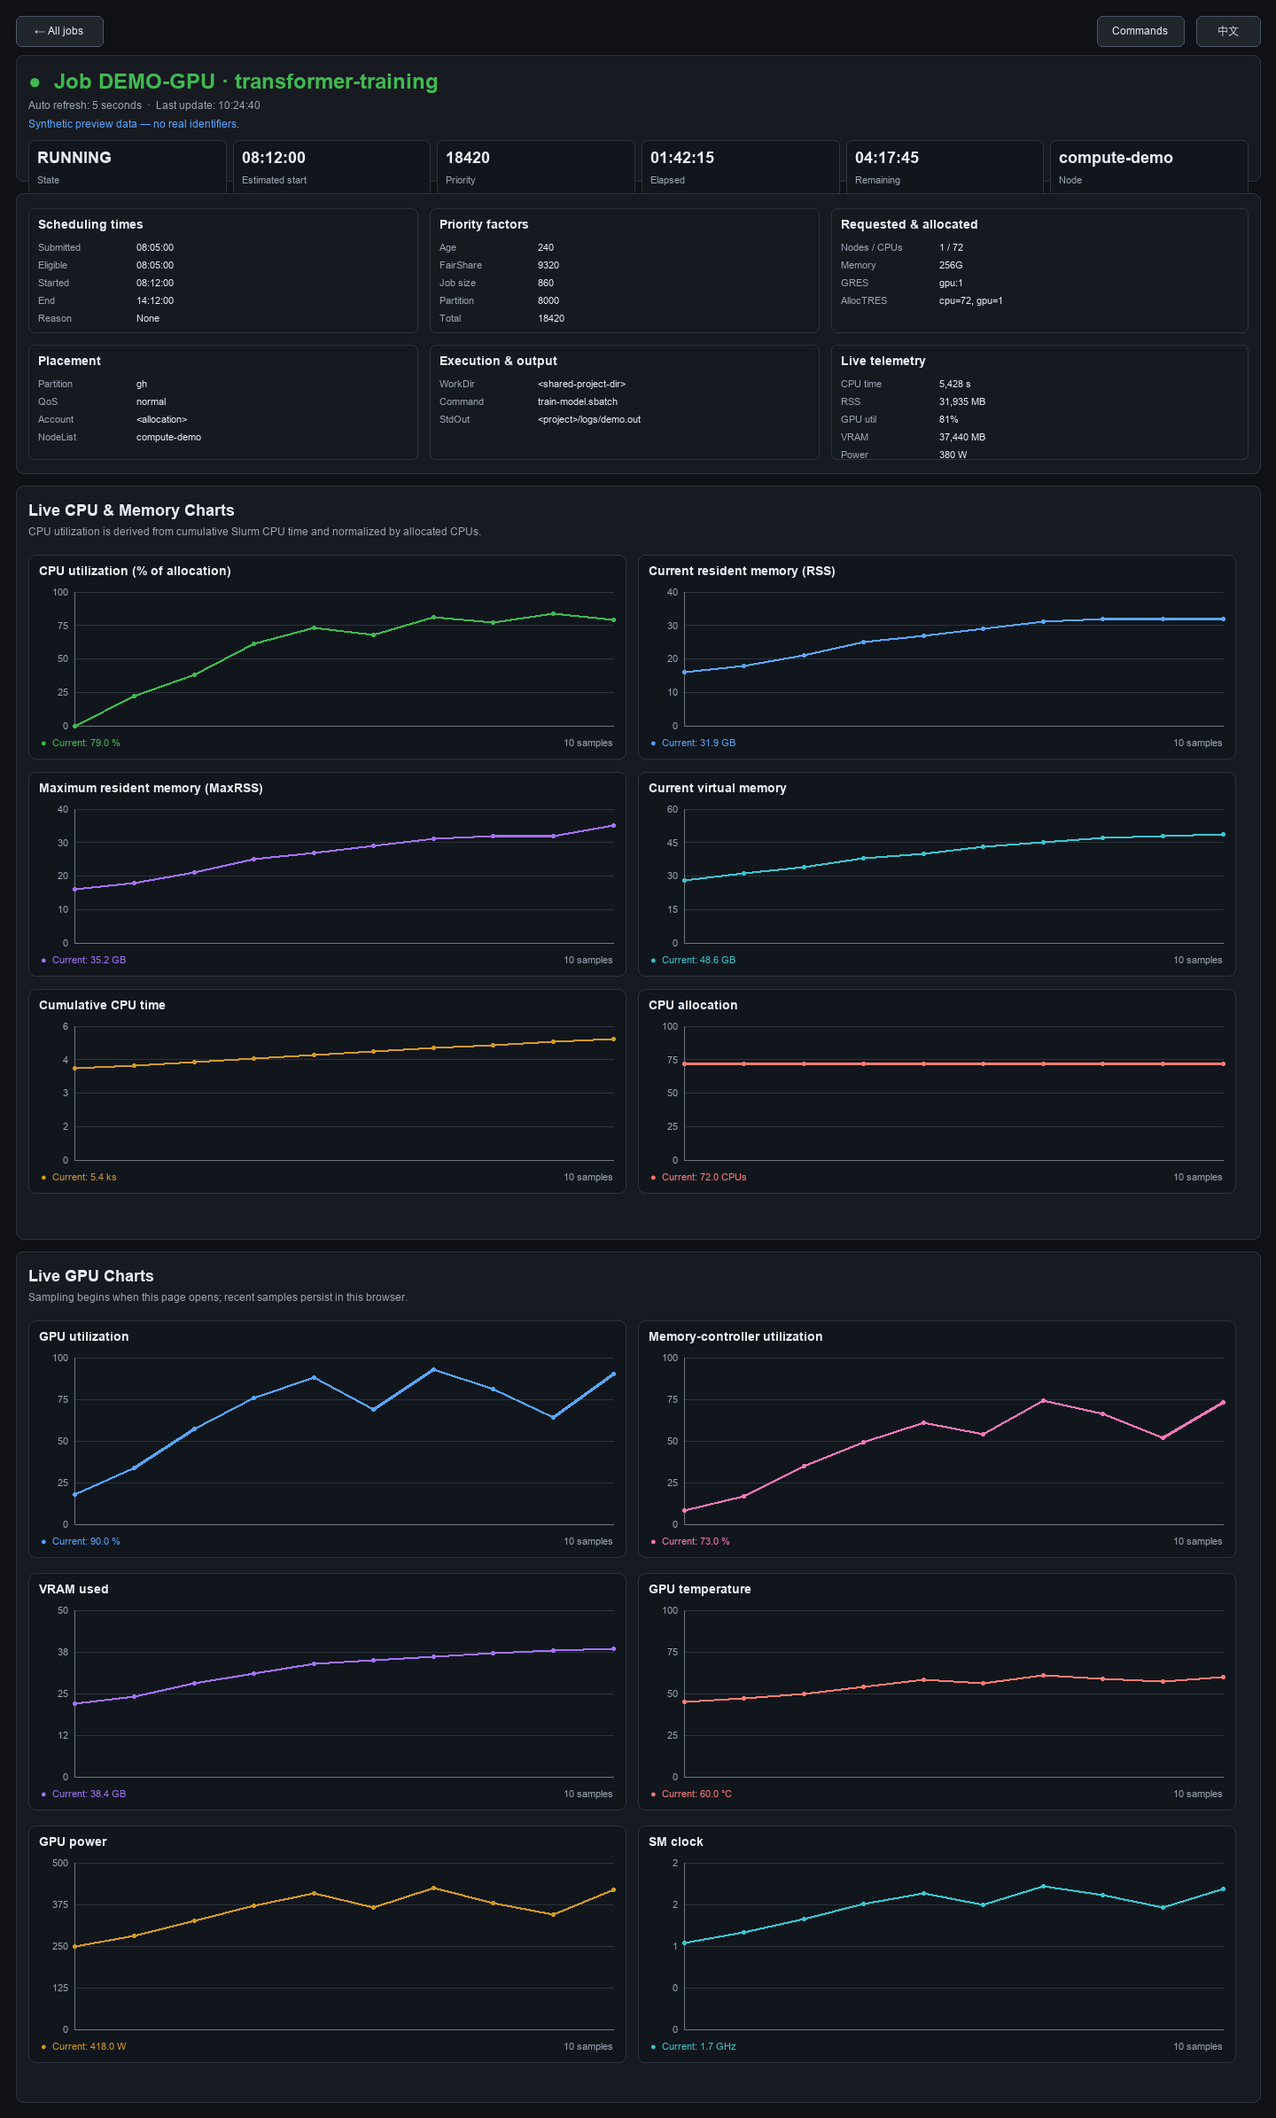
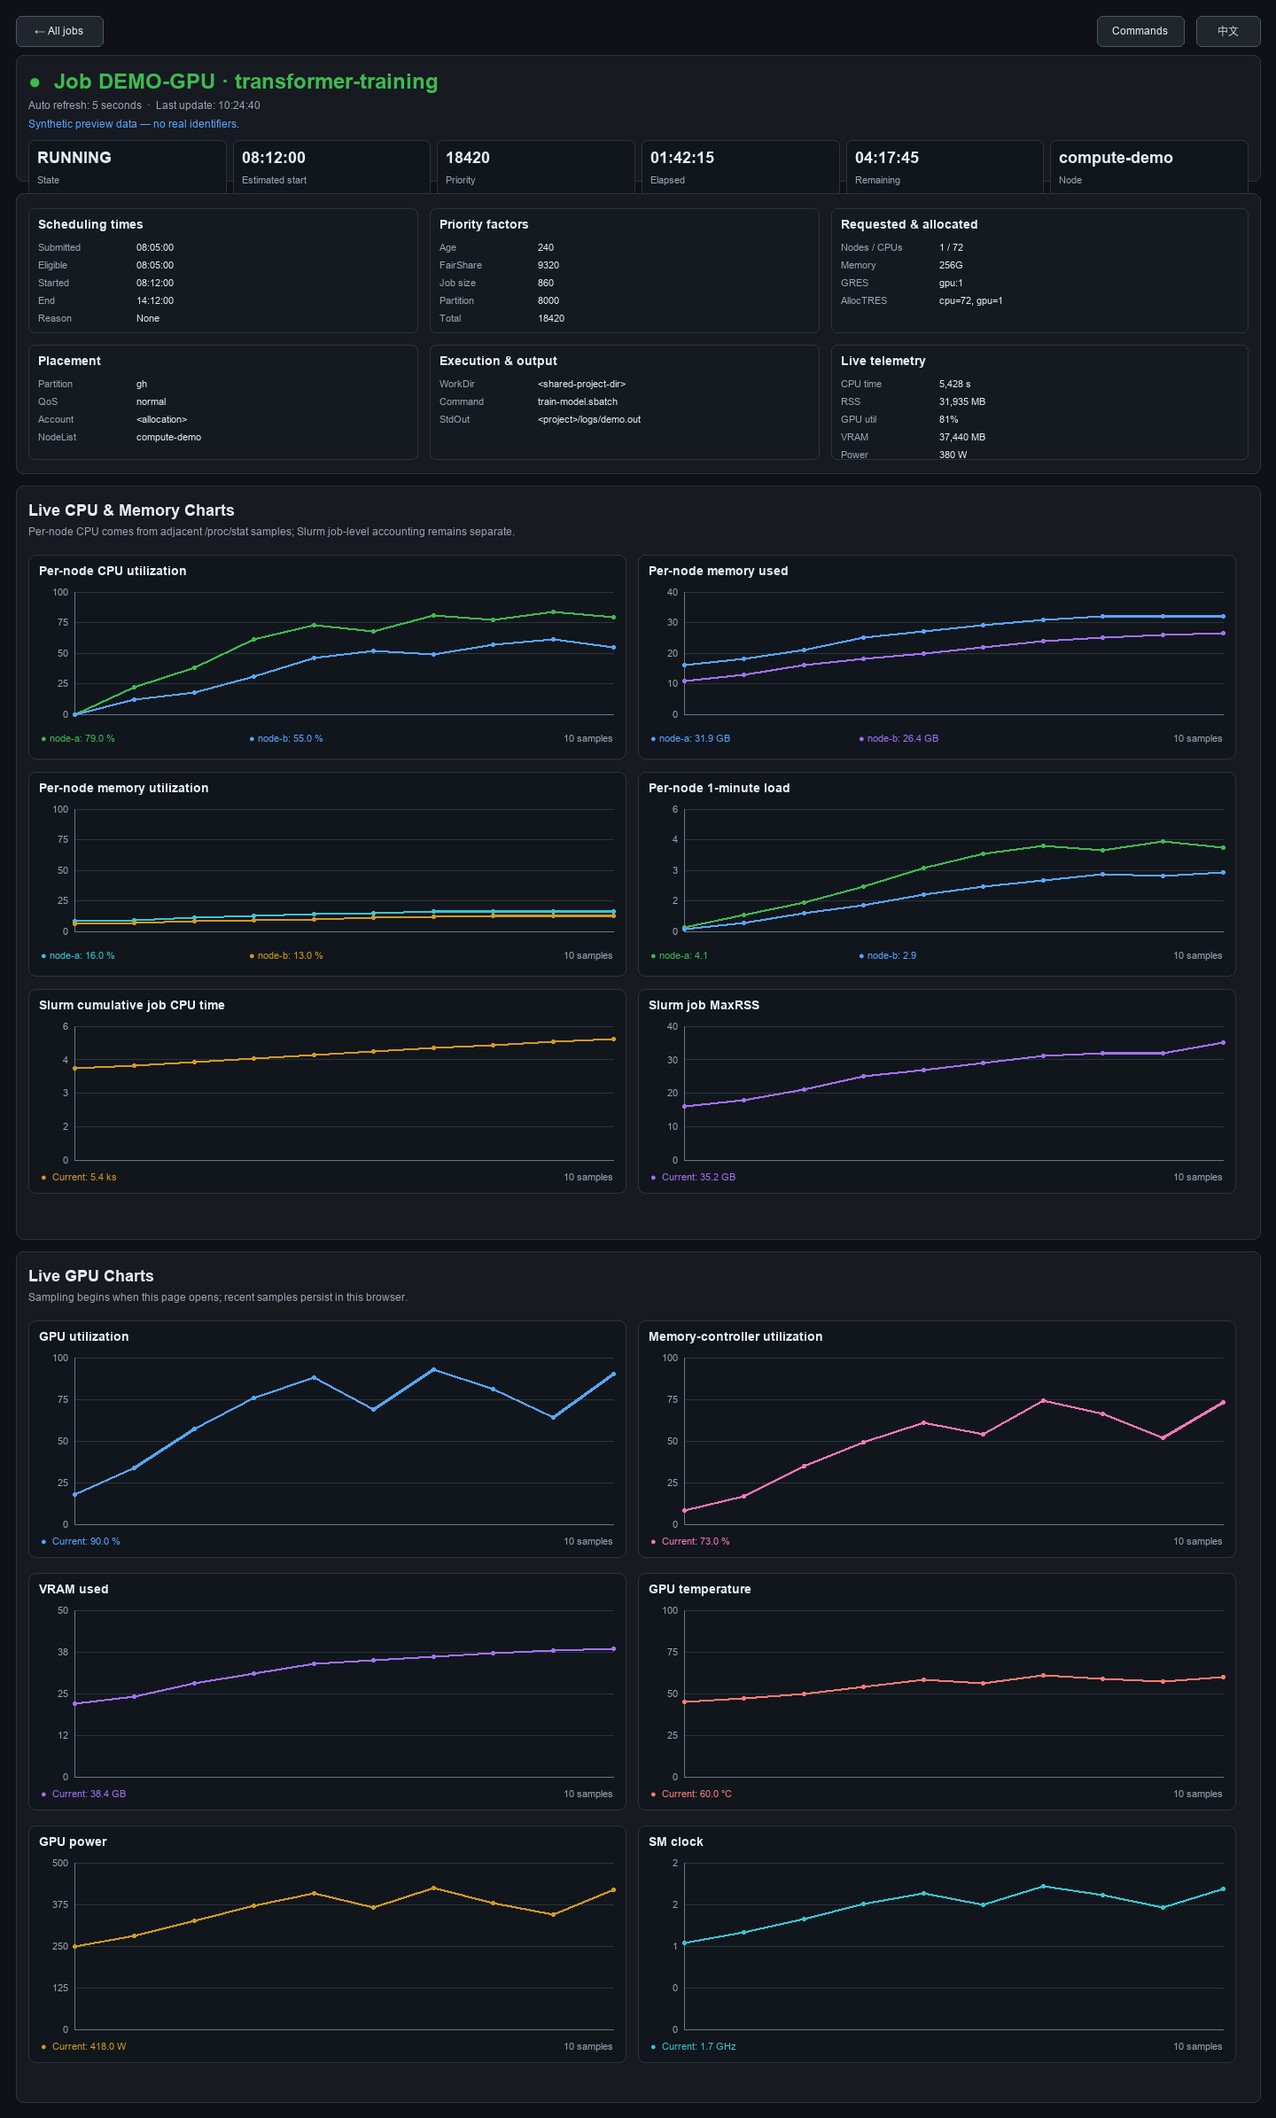
Add per-node CPU and memory charts

diff --git a/scripts/dashboard/vista_job_dashboard.py b/scripts/dashboard/vista_job_dashboard.py
@@ -381,6 +381,8 @@ def accounting_row_to_job(row: dict[str, str]) -> dict[str, object]:
         "gpu_warn": "Historical GPU telemetry was not retained",
         "cpu": {"total_cpu_seconds": 0, "rss_mb": 0, "max_rss_mb": 0, "vmem_mb": 0, "max_vmem_mb": 0, "steps": []},
         "cpu_warn": "Historical CPU telemetry was not retained",
+        "node_cpu": {"nodes": []},
+        "node_cpu_warn": "Historical per-node telemetry was not retained",
         "slurm_details": row,
         "is_history": True,
     }
@@ -611,6 +613,79 @@ def query_job_gpu(
     return {"metrics": metrics, "processes": procs}, None
 
 
+def query_job_node_resources(
+    jobid: str,
+    partition: str,
+    node_count: object,
+    node_list: str,
+) -> tuple[dict[str, object], str | None]:
+    """Read per-node CPU counters, memory, and load from every allocated node."""
+    if not shutil.which("srun"):
+        return {"nodes": []}, "srun not available"
+
+    nodes = max(1, to_int(str(node_count)))
+    timeout = max(30, min(90, 20 + nodes * 3))
+    step_cmd = [
+        "srun",
+        "--overlap",
+        f"--jobid={jobid}",
+        f"--partition={partition}",
+        f"--ntasks={nodes}",
+        f"--nodes={nodes}",
+        "--ntasks-per-node=1",
+        "--time=00:00:15",
+    ]
+    if node_list and node_list not in {"N/A", "(null)", "None"}:
+        step_cmd.append(f"--nodelist={node_list}")
+
+    resource_query = (
+        "node=$(hostname -s); "
+        "read -r _ user nice system idle iowait irq softirq steal _ < /proc/stat; "
+        "total=$((user+nice+system+idle+iowait+irq+softirq+steal)); "
+        "idle_all=$((idle+iowait)); "
+        "mem_total=0; mem_available=0; "
+        "while read -r key value _; do "
+        "case \"$key\" in MemTotal:) mem_total=$value ;; MemAvailable:) mem_available=$value ;; esac; "
+        "done < /proc/meminfo; "
+        "read -r load1 load5 load15 _ < /proc/loadavg; "
+        "printf '%s|%s|%s|%s|%s|%s|%s|%s\\n' "
+        "\"$node\" \"$total\" \"$idle_all\" \"$mem_total\" \"$mem_available\" "
+        "\"$load1\" \"$load5\" \"$load15\""
+    )
+    try:
+        raw = run_cmd([*step_cmd, "bash", "-lc", resource_query], timeout=timeout)
+    except RuntimeError as error:
+        return {"nodes": [], "error": str(error)}, None
+
+    samples: list[dict[str, object]] = []
+    for line in raw.splitlines():
+        parts = [part.strip() for part in line.split("|")]
+        if len(parts) != 8 or not parts[0] or not all(part.replace(".", "", 1).isdigit() for part in parts[1:]):
+            continue
+        total_ticks = to_int(parts[1])
+        idle_ticks = to_int(parts[2])
+        memory_total_mb = to_int(parts[3]) / 1024
+        memory_available_mb = to_int(parts[4]) / 1024
+        memory_used_mb = max(0.0, memory_total_mb - memory_available_mb)
+        samples.append(
+            {
+                "node": parts[0],
+                "cpu_total_ticks": total_ticks,
+                "cpu_idle_ticks": idle_ticks,
+                "memory_total_mb": round(memory_total_mb, 2),
+                "memory_available_mb": round(memory_available_mb, 2),
+                "memory_used_mb": round(memory_used_mb, 2),
+                "memory_used_pct": round(100 * memory_used_mb / memory_total_mb, 1) if memory_total_mb else 0.0,
+                "load1": float(parts[5]),
+                "load5": float(parts[6]),
+                "load15": float(parts[7]),
+            }
+        )
+    samples.sort(key=lambda item: str(item.get("node", "")))
+    warning = None if samples else "No per-node CPU or memory data was returned"
+    return {"nodes": samples}, warning
+
+
 def query_job_cpu(jobid: str) -> tuple[dict[str, object], str | None]:
     """Read cumulative CPU time and live memory statistics for all running steps."""
     if not shutil.which("sstat"):
@@ -755,6 +830,14 @@ def collect_all(
             cpu_data, cpu_warn = query_job_cpu(j["jobid"])
             entry["cpu"] = cpu_data
             entry["cpu_warn"] = cpu_warn
+            node_cpu_data, node_cpu_warn = query_job_node_resources(
+                j["jobid"],
+                partition,
+                detail.get("NumNodes", j.get("num_nodes", 1)),
+                str(j.get("nodes", "")),
+            )
+            entry["node_cpu"] = node_cpu_data
+            entry["node_cpu_warn"] = node_cpu_warn
         else:
             entry["cpu"] = {
                 "total_cpu_seconds": 0,
@@ -765,6 +848,8 @@ def collect_all(
                 "steps": [],
             }
             entry["cpu_warn"] = None
+            entry["node_cpu"] = {"nodes": []}
+            entry["node_cpu_warn"] = None
 
         estimate = estimated_starts.get(j["jobid"], {})
         priority = priority_components.get(j["jobid"], {})
@@ -977,7 +1062,7 @@ const I18N = {
     all_jobs:'全部作业', dashboard_title:'Vista 作业、CPU 与 GPU 仪表盘', auto_refresh:'自动刷新',
     last_update:'最后更新', gpu_charts:'GPU 实时曲线', cpu_charts:'CPU 与内存实时曲线',
     chart_note:'曲线从打开详情页后开始采样；近期样本保存在本机浏览器中。',
-    cpu_chart_note:'CPU 利用率根据 Slurm 累计 CPU 时间在相邻样本间计算，并按已分配 CPU 数归一化。',
+    cpu_chart_note:'每节点 CPU 利用率根据相邻 /proc/stat 样本计算；Slurm 作业级曲线仍显示累计 CPU 时间和 MaxRSS。',
     active_jobs:'活动作业', running:'运行中', pending:'排队中', nodes_requested:'节点请求',
     cpus_requested:'CPU 请求', gpus_allocated:'GPU 分配', finished:'已结束', abnormal:'异常结束',
     job:'任务', elapsed_left:'耗时 / 剩时', scheduling:'调度信息', placement:'分区 / QoS / 节点',
@@ -1005,7 +1090,7 @@ const I18N = {
     all_jobs:'All jobs', dashboard_title:'Vista Jobs, CPU & GPU Dashboard', auto_refresh:'Auto refresh',
     last_update:'Last update', gpu_charts:'Live GPU Charts', cpu_charts:'Live CPU & Memory Charts',
     chart_note:'Sampling begins when this page opens; recent samples persist in this browser.',
-    cpu_chart_note:'CPU utilization is derived from the change in Slurm cumulative CPU time between samples, normalized by allocated CPUs.',
+    cpu_chart_note:'Per-node CPU utilization is derived from adjacent /proc/stat samples; Slurm job-level charts retain cumulative CPU time and MaxRSS.',
     active_jobs:'Active jobs', running:'Running', pending:'Pending', nodes_requested:'Nodes requested',
     cpus_requested:'CPUs requested', gpus_allocated:'GPUs allocated', finished:'finished', abnormal:'Abnormal exits',
     job:'Job', elapsed_left:'Elapsed / Left', scheduling:'Scheduling', placement:'Partition / QoS / Nodes',
@@ -1505,13 +1590,17 @@ async function refresh() {
 const DETAIL_HISTORY_LIMIT = 720;
 const detailHistoryKey = detailJobId ? `vista-gpu-history-v2-${detailJobId}` : '';
 const detailCpuHistoryKey = detailJobId ? `vista-cpu-history-${detailJobId}` : '';
+const detailNodeCpuHistoryKey = detailJobId ? `vista-node-cpu-history-v1-${detailJobId}` : '';
 let detailSeries = {};
 let detailCpuSeries = [];
+let detailNodeCpuSeries = {};
 if (detailHistoryKey) {
   try { detailSeries = JSON.parse(localStorage.getItem(detailHistoryKey) || '{}'); }
   catch (_) { detailSeries = {}; }
   try { detailCpuSeries = JSON.parse(localStorage.getItem(detailCpuHistoryKey) || '[]'); }
   catch (_) { detailCpuSeries = []; }
+  try { detailNodeCpuSeries = JSON.parse(localStorage.getItem(detailNodeCpuHistoryKey) || '{}'); }
+  catch (_) { detailNodeCpuSeries = {}; }
 }
 
 function metricNumber(value) {
@@ -1571,6 +1660,37 @@ function recordDetailSample(job) {
   });
   if (detailCpuSeries.length > DETAIL_HISTORY_LIMIT) detailCpuSeries.splice(0, detailCpuSeries.length - DETAIL_HISTORY_LIMIT);
   try { localStorage.setItem(detailCpuHistoryKey, JSON.stringify(detailCpuSeries)); } catch (_) { /* storage is optional */ }
+
+  const nodeSamples = (job.node_cpu && job.node_cpu.nodes) || [];
+  for (const sample of nodeSamples) {
+    const node = String(sample.node || 'unknown-node');
+    if (!detailNodeCpuSeries[node]) detailNodeCpuSeries[node] = [];
+    const points = detailNodeCpuSeries[node];
+    const prior = points.length ? points[points.length - 1] : null;
+    const totalTicks = metricNumber(sample.cpu_total_ticks);
+    const idleTicks = metricNumber(sample.cpu_idle_ticks);
+    let cpuUtil = 0;
+    if (prior && totalTicks > metricNumber(prior.cpu_total_ticks)) {
+      const totalDelta = totalTicks - metricNumber(prior.cpu_total_ticks);
+      const idleDelta = Math.max(0, idleTicks - metricNumber(prior.cpu_idle_ticks));
+      cpuUtil = 100 * Math.max(0, totalDelta - idleDelta) / totalDelta;
+    }
+    points.push({
+      t: now,
+      cpu_util: Math.max(0, Math.min(100, cpuUtil)),
+      cpu_total_ticks: totalTicks,
+      cpu_idle_ticks: idleTicks,
+      memory_used_mb: metricNumber(sample.memory_used_mb),
+      memory_available_mb: metricNumber(sample.memory_available_mb),
+      memory_total_mb: metricNumber(sample.memory_total_mb),
+      memory_used_pct: metricNumber(sample.memory_used_pct),
+      load1: metricNumber(sample.load1),
+      load5: metricNumber(sample.load5),
+      load15: metricNumber(sample.load15)
+    });
+    if (points.length > DETAIL_HISTORY_LIMIT) points.splice(0, points.length - DETAIL_HISTORY_LIMIT);
+  }
+  try { localStorage.setItem(detailNodeCpuHistoryKey, JSON.stringify(detailNodeCpuSeries)); } catch (_) { /* storage is optional */ }
 }
 
 const chartColors = ['#58a6ff','#3fb950','#d29922','#f778ba','#a371f7','#39c5cf','#ff7b72','#ffa657'];
@@ -1607,15 +1727,19 @@ function lineChart(field, unit, fixedMax = null, suggestedMax = 1, sourceSeries 
 function metricTitle(zh, en) { return language === 'zh' ? zh : en; }
 function renderCpuCharts() {
   const cpuSeries = {all: detailCpuSeries};
+  const nodeSeries = Object.keys(detailNodeCpuSeries).length ? detailNodeCpuSeries : {
+    'N/A': [{cpu_util:0, memory_used_mb:0, memory_used_pct:0, load1:0}]
+  };
   const charts = [
-    [metricTitle('CPU 利用率（占已分配 CPU）','CPU utilization (% of allocation)'), 'cpu_util', '%', 100, 100],
-    [metricTitle('当前常驻内存 RSS','Current resident memory (RSS)'), 'rss_mb', 'MB', null, 1024],
-    [metricTitle('最大常驻内存 MaxRSS','Maximum resident memory (MaxRSS)'), 'max_rss_mb', 'MB', null, 1024],
-    [metricTitle('当前虚拟内存','Current virtual memory'), 'vmem_mb', 'MB', null, 1024],
-    [metricTitle('累计 CPU 时间','Cumulative CPU time'), 'total_cpu_seconds', 's', null, 60]
+    [metricTitle('每节点 CPU 利用率','Per-node CPU utilization'), 'cpu_util', '%', 100, 100, nodeSeries, metricTitle('节点','Node')],
+    [metricTitle('每节点已用内存','Per-node memory used'), 'memory_used_mb', 'MB', null, 1024, nodeSeries, metricTitle('节点','Node')],
+    [metricTitle('每节点内存使用率','Per-node memory utilization'), 'memory_used_pct', '%', 100, 100, nodeSeries, metricTitle('节点','Node')],
+    [metricTitle('每节点 1 分钟 Load','Per-node 1-minute load'), 'load1', '', null, 1, nodeSeries, metricTitle('节点','Node')],
+    [metricTitle('Slurm 作业累计 CPU 时间','Slurm cumulative job CPU time'), 'total_cpu_seconds', 's', null, 60, cpuSeries, metricTitle('作业','Job')],
+    [metricTitle('Slurm 作业 MaxRSS','Slurm job MaxRSS'), 'max_rss_mb', 'MB', null, 1024, cpuSeries, metricTitle('作业','Job')]
   ];
-  document.getElementById('cpu-charts').innerHTML = charts.map(([title, field, unit, fixedMax, suggestedMax]) =>
-    `<section class="chart"><h3>${esc(title)}</h3>${lineChart(field, unit, fixedMax, suggestedMax, cpuSeries, 'CPU')}</section>`
+  document.getElementById('cpu-charts').innerHTML = charts.map(([title, field, unit, fixedMax, suggestedMax, source, prefix]) =>
+    `<section class="chart"><h3>${esc(title)}</h3>${lineChart(field, unit, fixedMax, suggestedMax, source, prefix)}</section>`
   ).join('');
 }
 
@@ -1645,6 +1769,14 @@ function currentCpuBlock(job) {
     <div class="stat"><div class="stat-value" style="font-size:16px">${shown(cpu.max_rss_mb, '0')} MB</div><div class="small">MaxRSS</div></div>
     <div class="stat"><div class="stat-value" style="font-size:16px">${shown(steps, '0')}</div><div class="small">Slurm steps</div></div>
   </div>`;
+}
+
+function currentNodeCpuBlock(job) {
+  const samples = (job.node_cpu && job.node_cpu.nodes) || [];
+  const warning = (job.node_cpu && job.node_cpu.error) || job.node_cpu_warn;
+  if (!samples.length) return `<div class="small">${warning ? `⚠ ${shown(warning)}` : esc(metricTitle('尚无每节点 CPU/内存数据。','No per-node CPU or memory data yet.'))}</div>`;
+  const rows = samples.map(sample => `<tr><td>${shown(sample.node)}</td><td>${shown(sample.memory_used_mb)} / ${shown(sample.memory_total_mb)} MB</td><td>${shown(sample.memory_used_pct)}%</td><td>${shown(sample.load1)}</td><td>${shown(sample.load5)}</td><td>${shown(sample.load15)}</td></tr>`).join('');
+  return `${warning ? `<div class="small">⚠ ${shown(warning)}</div>` : ''}<div class="history-wrap"><table><thead><tr><th>Node</th><th>${esc(metricTitle('已用 / 总内存','Used / total memory'))}</th><th>${esc(metricTitle('内存使用率','Memory utilization'))}</th><th>Load 1m</th><th>Load 5m</th><th>Load 15m</th></tr></thead><tbody>${rows}</tbody></table></div>`;
 }
 
 function currentGpuBlock(job) {
@@ -1687,7 +1819,8 @@ function renderJobDetail(job) {
         ['WorkDir', job.work_dir], ['Command', job.command], ['StdOut', job.stdout], ['StdErr', job.stderr], ['StdIn', job.stdin]
       ])}</section>
     </div>
-    <h2 style="margin-top:16px">${esc(metricTitle('CPU 与内存实况','Live CPU & memory'))}</h2>${currentCpuBlock(job)}
+    <h2 style="margin-top:16px">${esc(metricTitle('每节点 CPU 与内存实况','Live CPU & memory by node'))}</h2>${currentNodeCpuBlock(job)}
+    <h2 style="margin-top:16px">${esc(metricTitle('Slurm 作业级 CPU 与内存','Slurm job-level CPU & memory'))}</h2>${currentCpuBlock(job)}
     <h2 style="margin-top:16px">${esc(t('gpu_live'))}</h2>${currentGpuBlock(job)}
     ${fullSlurmDetails(job, 'detail')}`;
   restoreDetailState(document.getElementById('job-overview'));

diff --git a/SKILL.md b/SKILL.md
@@ -75,12 +75,13 @@ The dashboard must provide:
 - a home page for active jobs plus recent terminal history, with real Slurm estimated-start and priority data when available;
 - a per-job page with real SVG line charts for CPU utilization, RSS/MaxRSS, virtual memory, cumulative CPU time, GPU utilization, GPU memory, temperature, power, and clocks;
 - separate node/GPU series for multi-node GPU jobs, including Vista partitions that expose GPUs by node type without GPU GRES/TRES entries;
+- per-node CPU utilization, used memory, memory percentage, and load curves sampled from each allocated node, with Slurm job-level CPU time and MaxRSS kept separately;
 - zero-valued chart series when a metric or device is absent, rather than replacing charts with text;
 - a bilingual Chinese/English toggle whose choice survives polling, reloads, and local-port changes;
 - persistent open/closed state for job-detail controls across automatic polling;
 - a bilingual common-command page with copy-only buttons and explicit local/login/compute execution locations.
 
-Poll the homepage without launching per-job GPU steps. On a running job detail page, read CPU/memory from `sstat`; derive normalized CPU utilization from the change in cumulative CPU time between browser samples. Query GPU metrics for jobs whose Slurm TRES data indicates a GPU allocation or whose configured GPU partition provides accelerators implicitly. Use one short overlapping `srun` task per allocated node, pass the job partition explicitly, prefix samples with the hostname, and key each series by node plus GPU index. Never run `nvidia-smi` for CPU-only jobs.
+Poll the homepage without launching per-job live sampling steps. On a running detail page, keep job-level CPU time and MaxRSS from `sstat`, and sample `/proc/stat`, `/proc/meminfo`, and `/proc/loadavg` once per allocated node for node-level CPU, memory, and load curves. Derive CPU utilization from adjacent cumulative tick samples in the browser. Query GPU metrics for jobs whose Slurm TRES data indicates a GPU allocation or whose configured GPU partition provides accelerators implicitly. Use short overlapping `srun` tasks, pass the job partition explicitly, prefix samples with the hostname, and key each series by node plus GPU index. Never run `nvidia-smi` for CPU-only jobs.
 
 Treat only pending, running, configuring, completing, suspended, or stopped states as active. Put cancelled, failed, timed-out, out-of-memory, node-failed, preempted, and completed jobs in history. Merge terminal IDs still visible through `squeue` with accounting history so a never-started cancellation moves out of the active table immediately.
 

diff --git a/README.md b/README.md
@@ -14,6 +14,7 @@ The installer now adds `vista-dashboard-open` and a loopback-only Vista dashboar
 - estimated start time, priority factors, wait reasons, resources, paths, and Slurm details;
 - one detail page per job with real SVG line charts—not text charts—for CPU utilization, RSS/MaxRSS, virtual memory, cumulative CPU time, GPU utilization, GPU memory, temperature, power, and clocks;
 - separate node/GPU series for multi-node GPU allocations, so devices named `GPU 0` on different nodes remain distinguishable;
+- per-node CPU utilization, used memory, memory percentage, and load curves, alongside separately labeled Slurm job-level CPU time and MaxRSS;
 - zero lines when a metric is unused or unavailable;
 - Chinese/English switching, persistent expanded details, and five-second polling;
 - a common-command page with copy-only examples for local SSH, allocation, queue inspection, submission, cancellation, monitoring, and Codex recovery.
